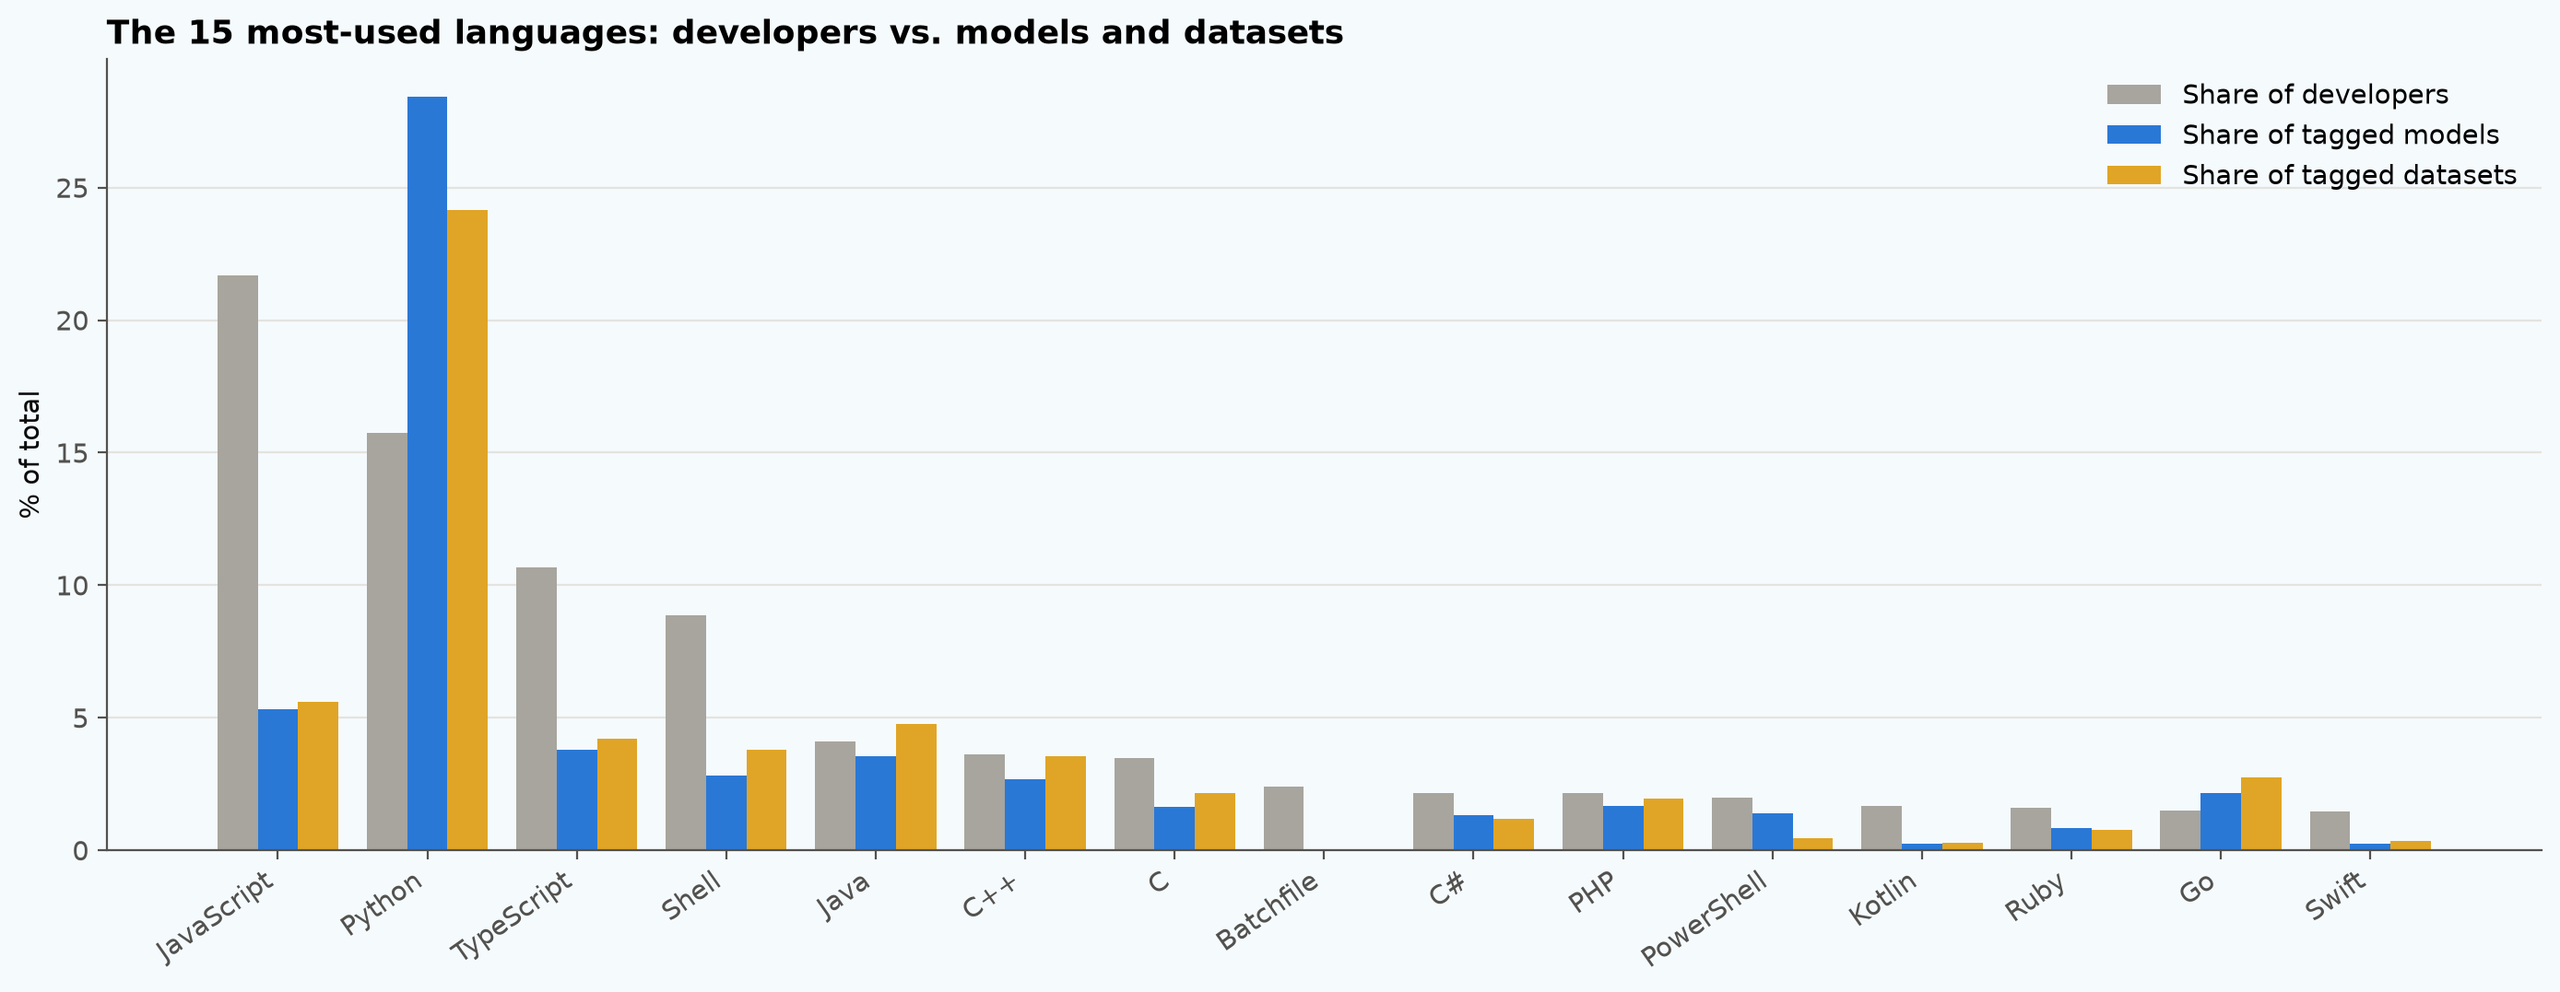
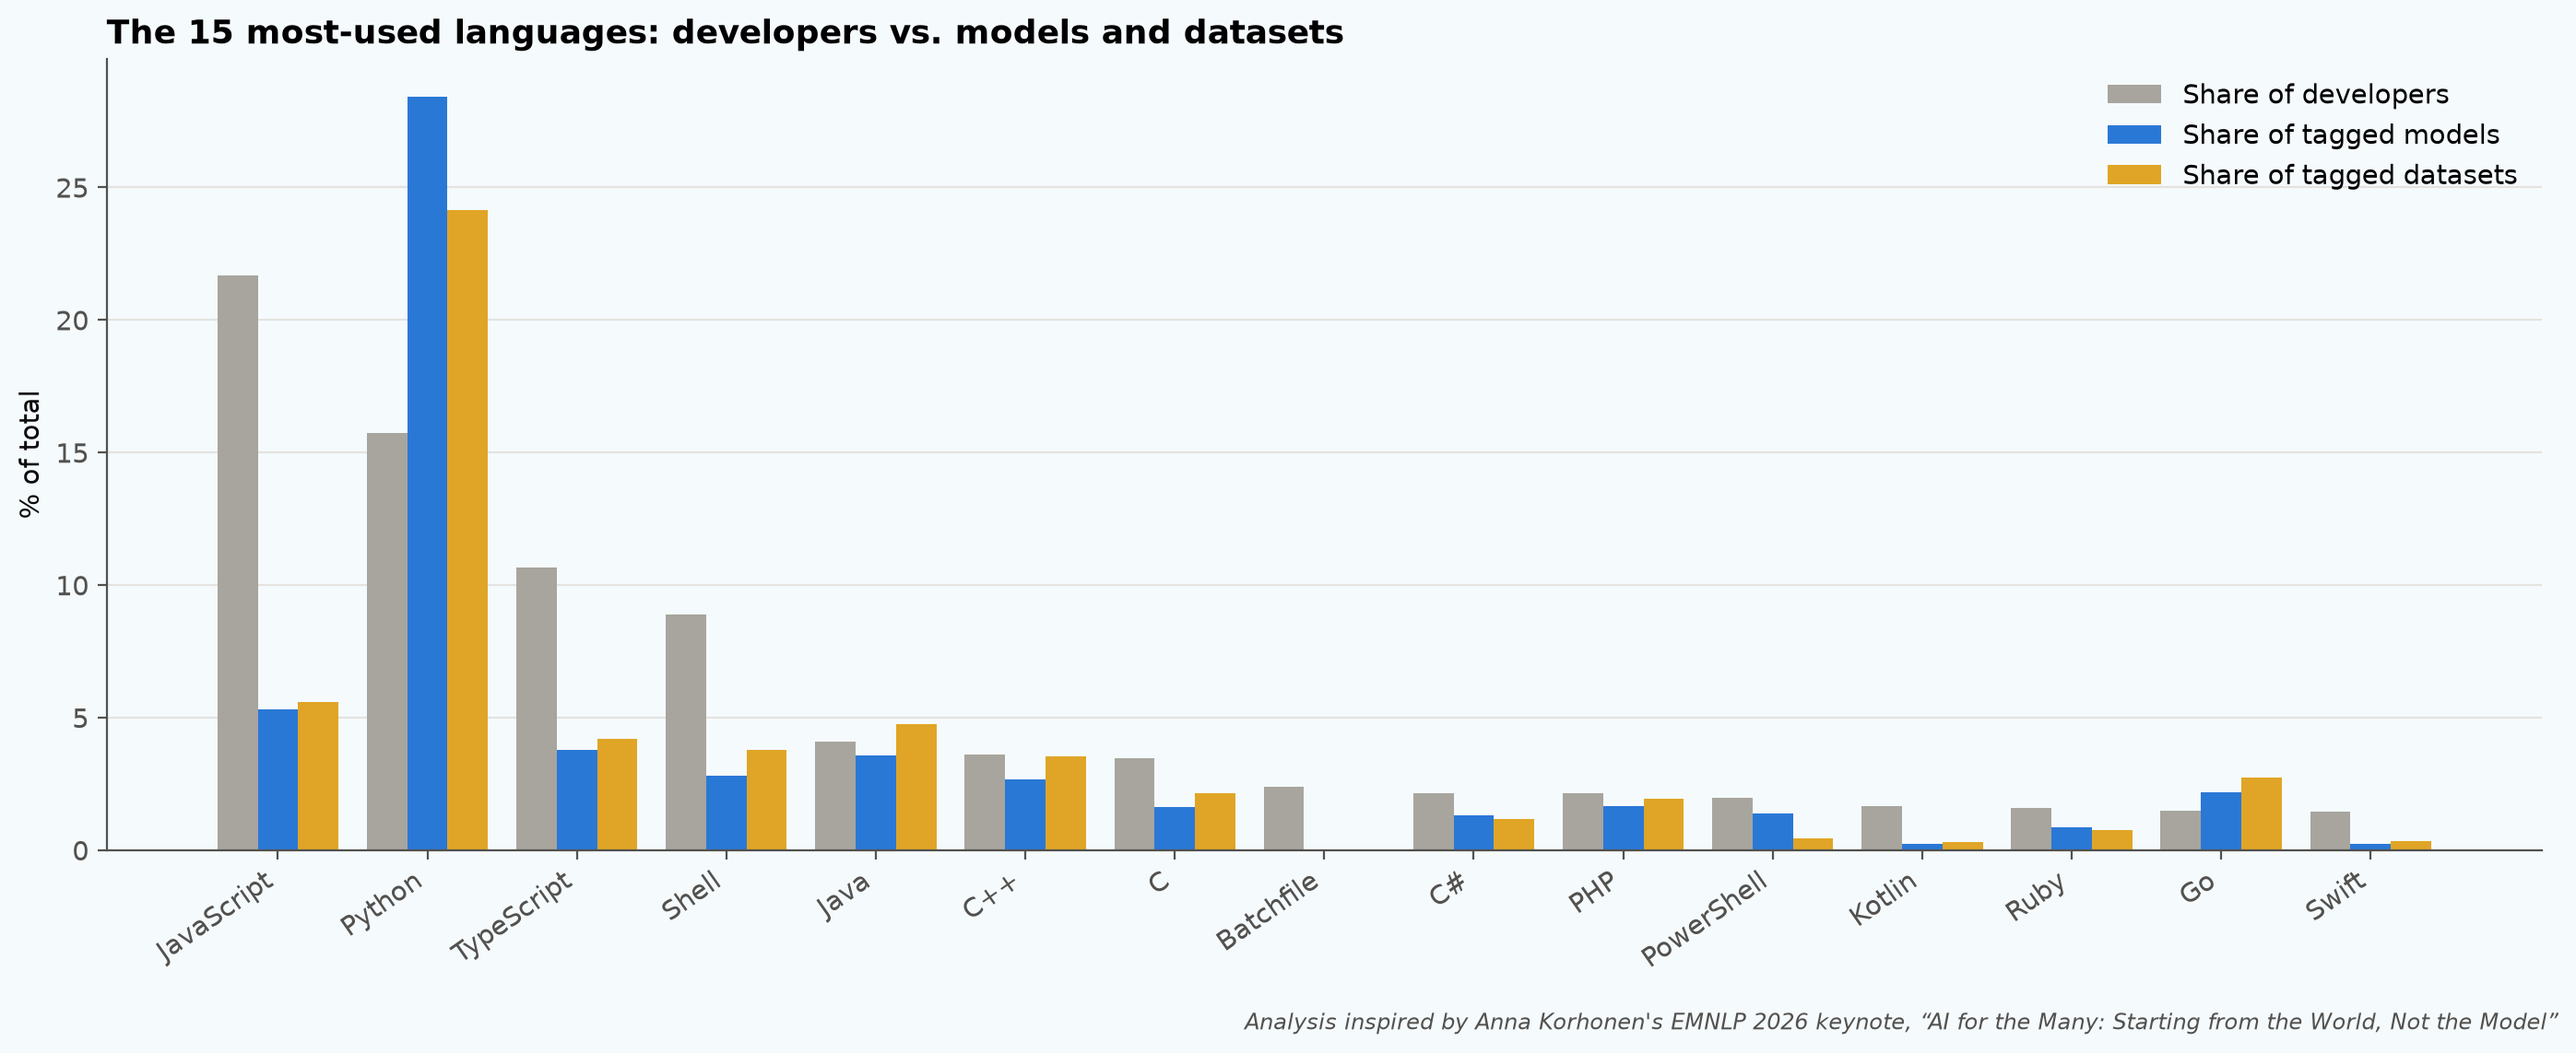
Update credit on figures.

diff --git a/src/plots.py b/src/plots.py
@@ -58,9 +58,9 @@ plt.rcParams.update(
 
 KINDS = ("models", "datasets")
 
-# credit line on the figures that follow the keynote's slides
-CREDIT = (
-    "After Anna Korhonen's EMNLP 2026 keynote, "
+# the keynote these figures credit, each figure says how it relates to it
+KEYNOTE = (
+    "Anna Korhonen's EMNLP 2026 keynote, "
     "“AI for the Many: Starting from the World, Not the Model”"
 )
 
@@ -110,12 +110,13 @@ def by_count(
 
 def add_credit(
     fig: plt.Figure,
+    lead: str = "Adapted from",
 ) -> None:
-    """Write the keynote credit line along the bottom-right of a figure."""
+    """Write the keynote credit line along the bottom-right of a figure, starting with lead."""
     fig.text(
         0.995,
         -0.01,
-        CREDIT,
+        f"{lead} {KEYNOTE}",
         ha="right",
         va="top",
         fontsize=8.5,
@@ -486,6 +487,8 @@ def share_figure(
         loc="left",
     )
     fig.tight_layout()
+    # this plot isn't from the keynote's slides, only the analysis idea is
+    add_credit(fig, lead="Analysis inspired by")
     fig.savefig(FIGURES / "share.png")
     plt.close(fig)
 
